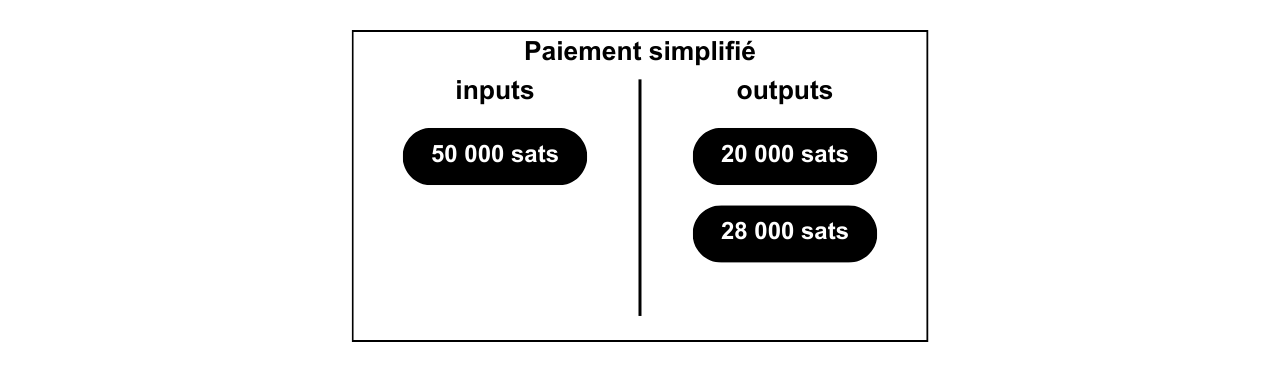
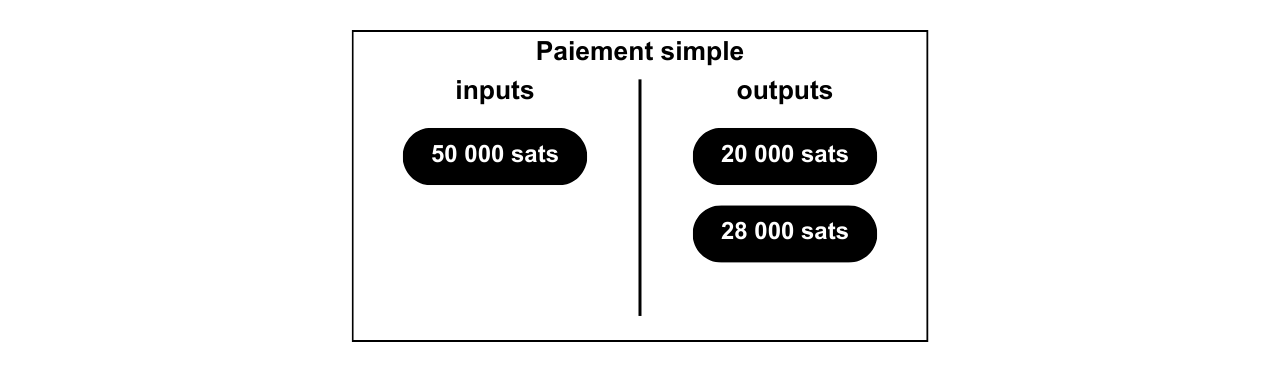
paiement simple

Changed region(s): [[0.4062, 0.0887, 0.5938, 0.1774]]

diff --git a/dictionnaire/P.md b/dictionnaire/P.md
@@ -85,7 +85,7 @@ Il convient de souligner que cette heuristique n'est pas toujours applicable, pu
 
 ![](assets/11.png)
 
-## PAIEMENT SIMPLIFIÉ
+## PAIEMENT SIMPLE
 
 Pattern (ou modèle) de transaction utilisé en analyse de chaîne qui se caractérise par la consommation d’un ou plusieurs UTXOs en inputs et la production de 2 UTXOs en outputs. Ce modèle va donc ressembler à cela :
 
